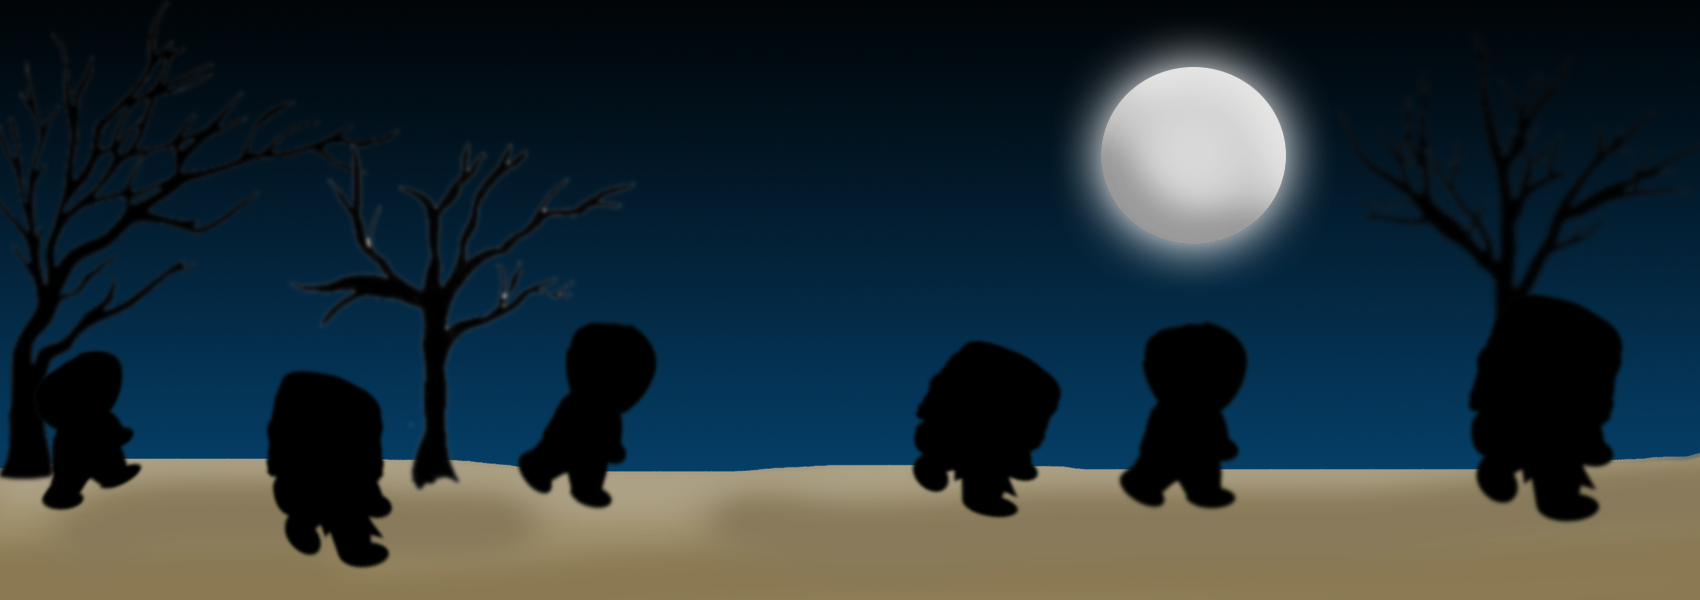
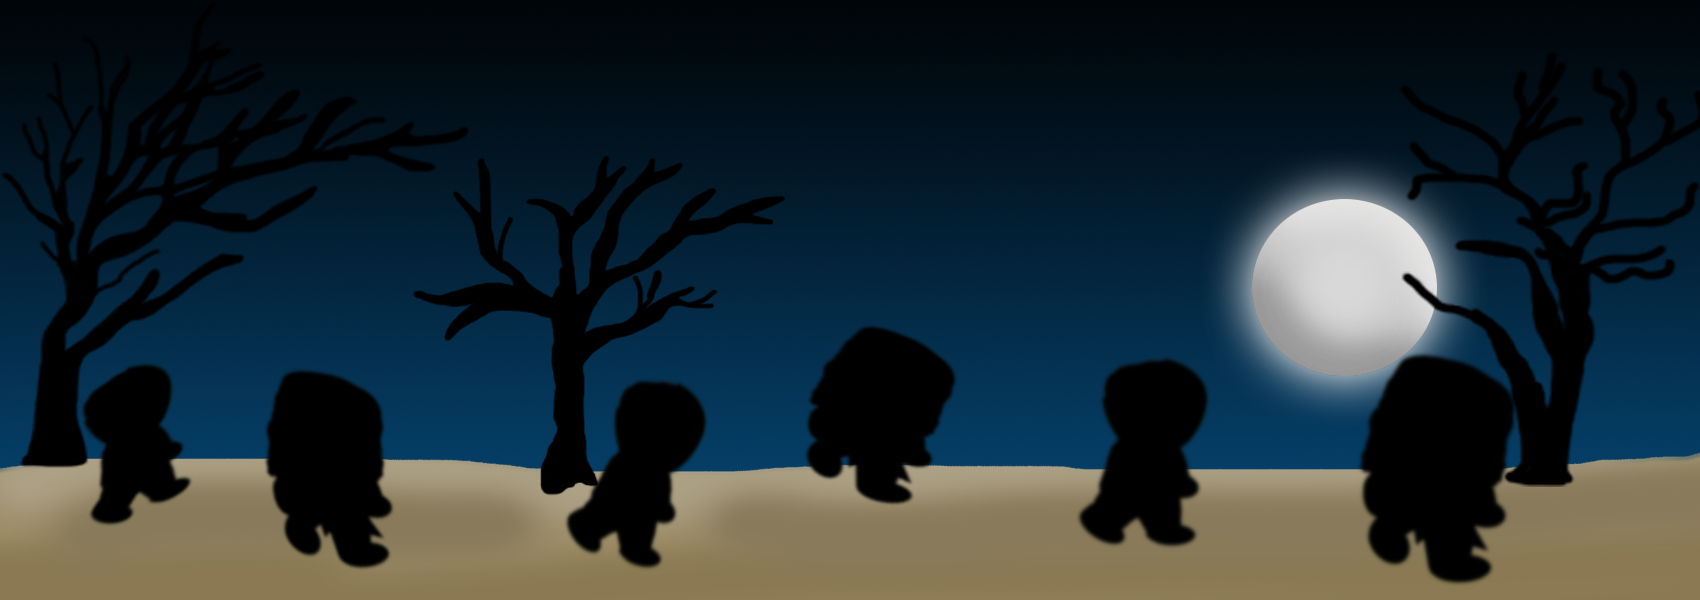
Fixed survival guide and footer image

Changed region(s): [[0.4676, 0.06, 1.0, 0.99], [0.0, 0.15, 0.4676, 0.96]]

diff --git a/public/css/style.css b/public/css/style.css
@@ -190,7 +190,9 @@ body{
     height:700px;
     color:white;
     background: url('../img/footer.png') no-repeat center center scroll;
-    background-size: 100vw auto;
+    background-size: 100vw 100%;
+    margin-bottom:0;
+    padding-bottom:0;
 }
 
 #login-btn h1{
@@ -405,23 +407,27 @@ nav{
     padding:0;
 }
 
+#survival_wrapper{
+    position:relative;
+}
+
 #survival_img{
-    position:fixed;
+    position:absolute;
     margin-left:18vw;
     margin-top: 20px;
     width:82vw;
-    height:90vh;
+    height:95vh;
 }
 
 
 .survival_interaction_point{
     cursor:pointer;
-    position:fixed;
+    position:absolute;
 }
 
 .survival_interaction_tip{
     background-color: #d5dcdd;
-    position:fixed;
+    position:absolute;
     color:black;
     padding:10px;
     width:400px;
@@ -453,71 +459,71 @@ nav{
 }
 
 #survival_point_supplies{
-    left:500px;
-    top:700px;
+    left:27vw;
+    top:80vh;
 }
 #survival_tip_supplies{
-    left:570px;
-    top:600px;
+    left:32vw;
+    top:70vh
 }
 #survival_point_communication{
-    margin-left:1600px;
-    margin-top:150px;
+    left:85vw;
+    top:15vh;
 }
 
 #survival_tip_communication{
-     margin-left:1200px;
-     margin-top:200px;
+     right:15vw;
+     top:10vh
 }
 
 #survival_point_skills{
-     margin-left:1650px;
-     margin-top:700px;
+    left:92vw;
+    top:60vh;
 }
 
 #survival_tip_skills{
-    margin-left:1220px;
-    margin-top:580px;
+    right: 10vw;
+    top:55vh;
 }
 
 #survival_point_safety{
-    margin-left:1400px;
-    margin-top:300px;
+    left:75vw;
+    top:30vh;
 }
 
 #survival_tip_safety{
-    margin-left:970px;
-    margin-top:200px;
+    left:65vw;
+    top:37vh;
 }
 
 #survival_point_evacuation{
-    margin-left:900px;
-    margin-top:750px;
+    left:60vw;
+    top:80vh;
 }
 
 #survival_tip_evacuation{
-    margin-left:960px;
-    margin-top:570px;
+    top:57vh;
+    left:55vw;
 }
 
 #survival_point_resources{
-    margin-left:970px;
-    margin-top:350px;
+    left:52vw;
+    top:40vh;
 }
 
 #survival_tip_resources{
-    margin-left: 570px;
-    margin-top:170px;
+    left:30vw;
+    top:17vh;
 }
 
 #survival_point_help{
-    margin-left:600px;
-    margin-top:500px;
+    left:33vw;
+    top:55vh;
 }
 
 #survival_tip_help{
-    margin-left:460px;
-    margin-top:300px;
+    left:20vw;
+    top:33vh;
 }
 
 #floating-panel {

diff --git a/views/partials/survivalkit.html b/views/partials/survivalkit.html
@@ -1,5 +1,6 @@
 <div id="survival_kit" class="main-panel container-fluid">
-	<img src="/img/survival guide.png" id="survival_img"/>
+	<div id="survival_wrapper">
+		<img src="/img/survival guide.png" id="survival_img"/>
 		<svg height="50" width="50" class="survival_interaction_point" id="survival_point_supplies">
 		  <circle cx="25" cy="25" r="20" x="1000" stroke="#8C9FA3" stroke-width="2" fill="#ffffcc" opacity="0.5"/>
 		</svg>
@@ -77,6 +78,7 @@
 				In an apocalypse, you can never prepare for everything. However, you can better prepare yourself for dealing with emergencies as they arise by making sure you know what is needed to survive.
 			</p>
 		</div>
+	</div>
 </div>
 
 
